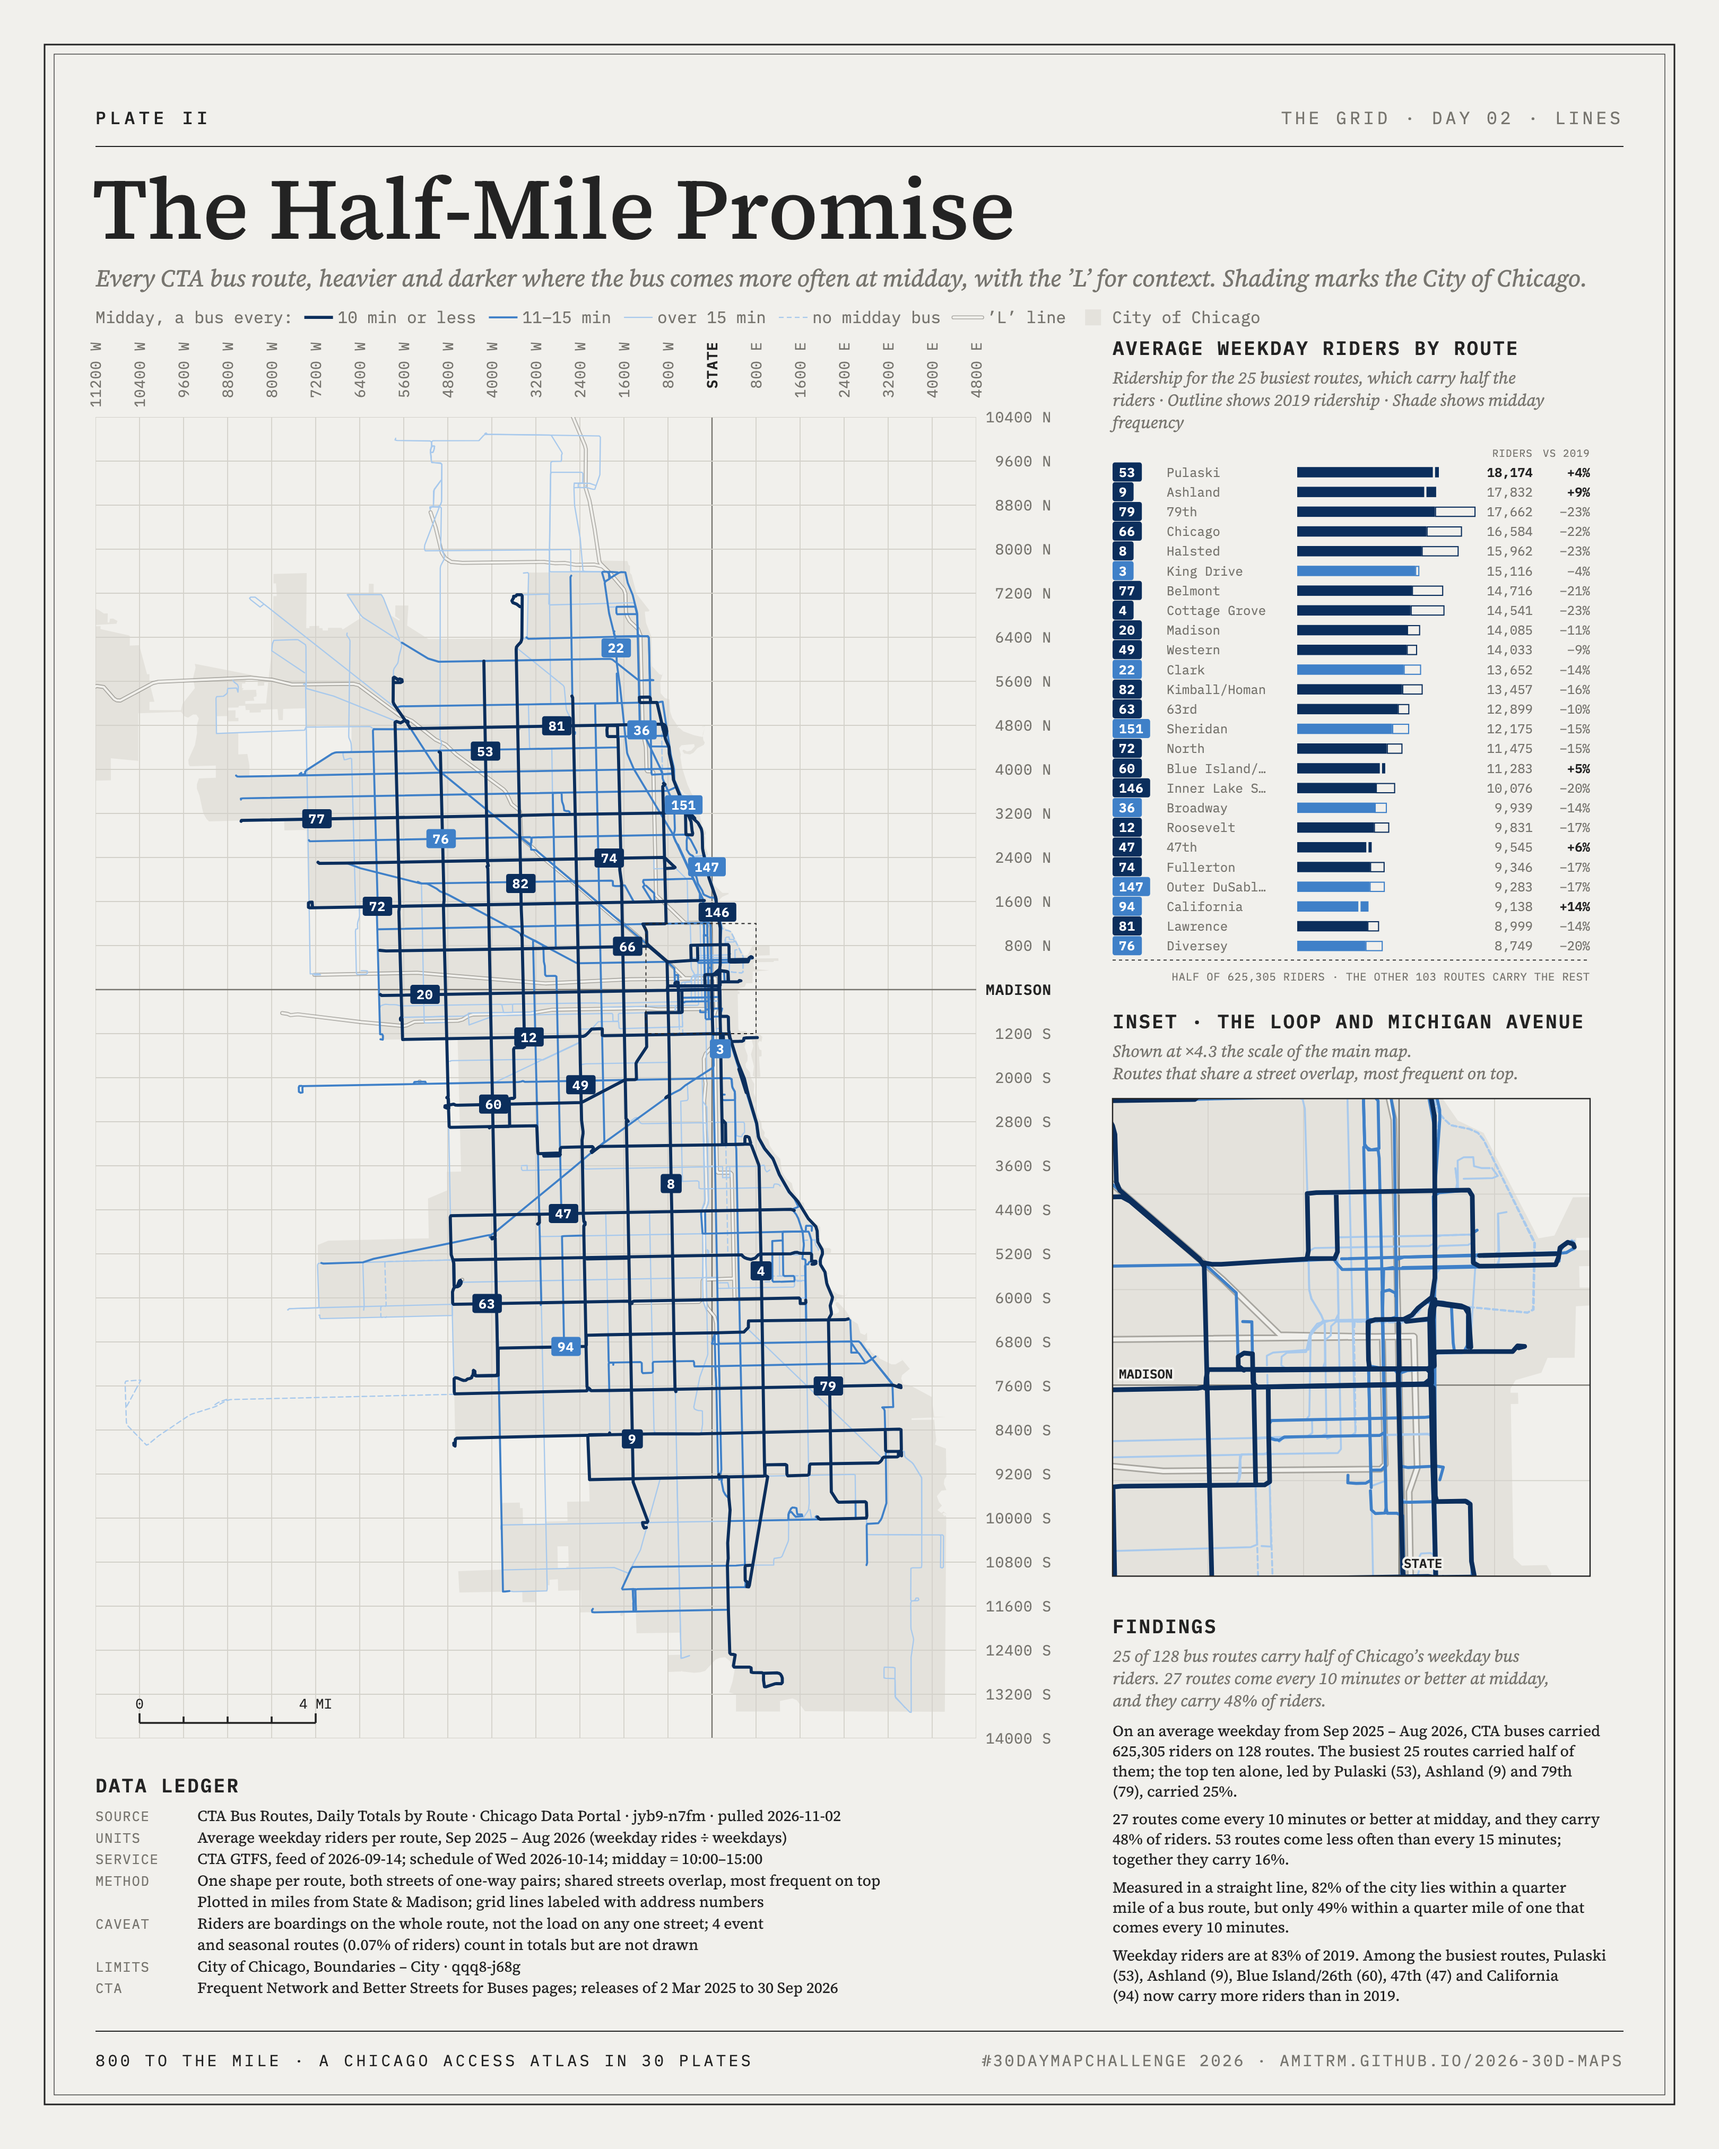
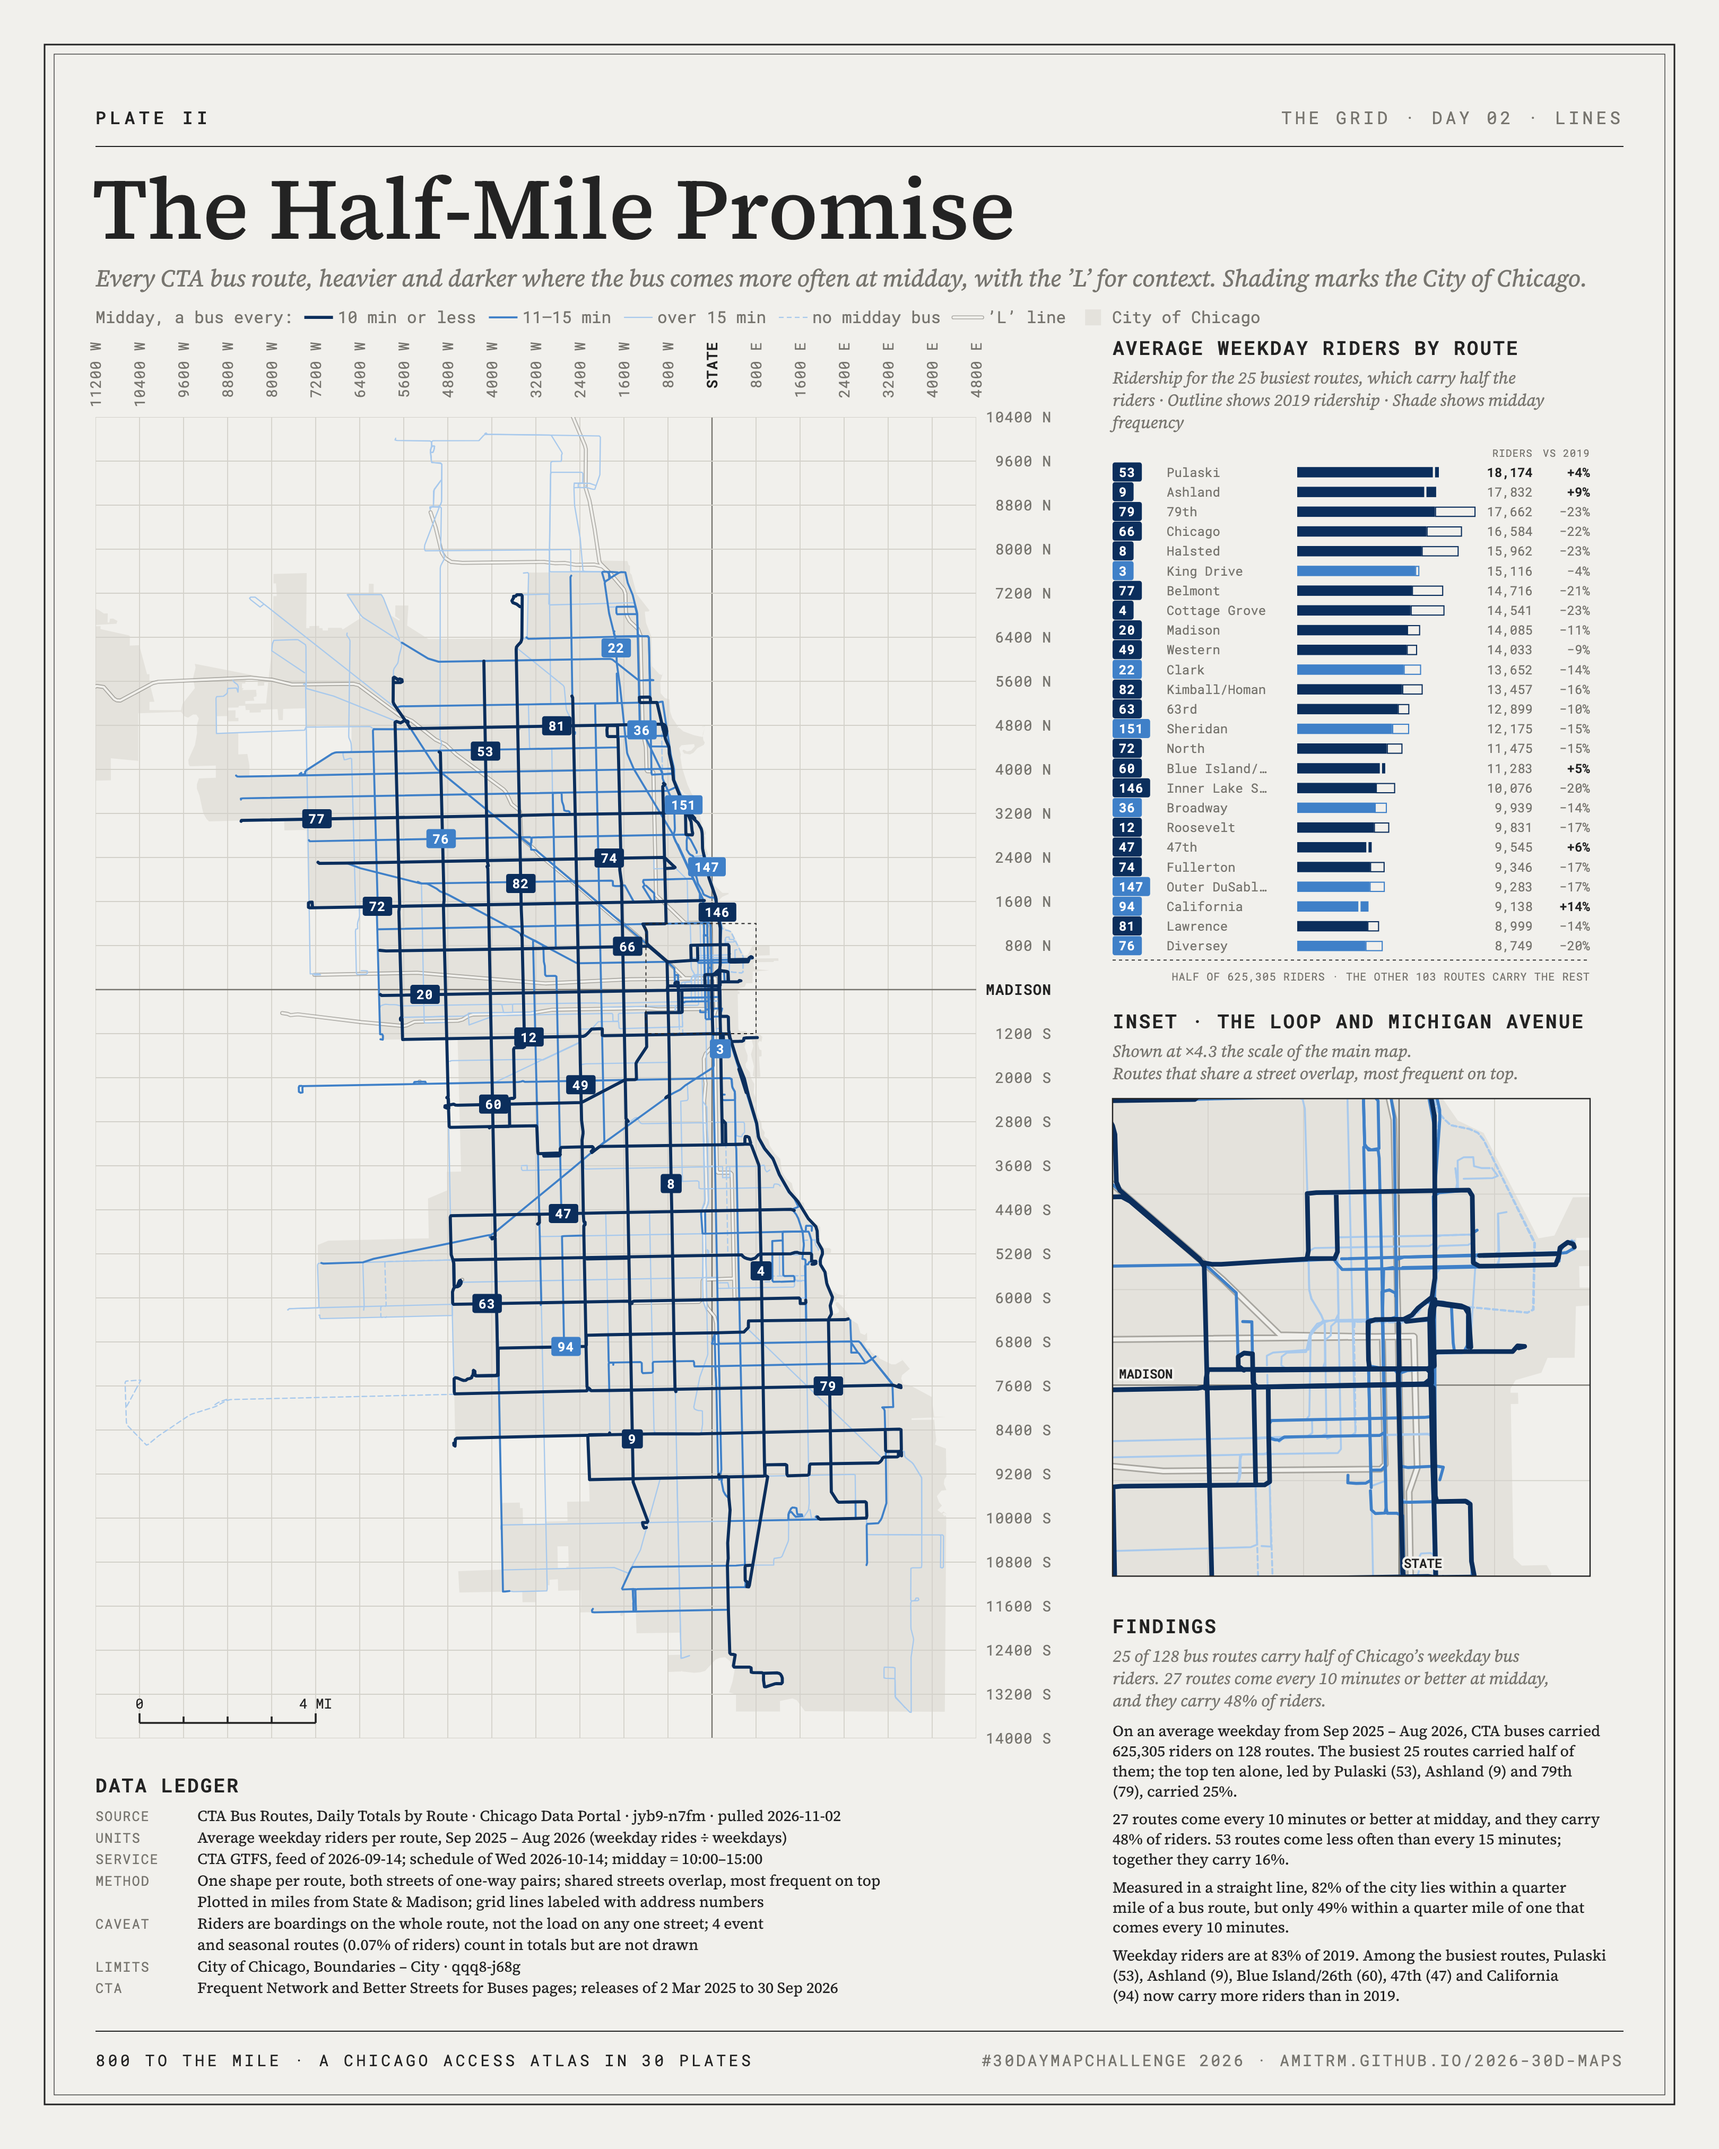
Switch the monospace face to Roboto Mono

diff --git a/src/styles/global.css b/src/styles/global.css
@@ -2,9 +2,9 @@
 @import '@fontsource/source-serif-4/400-italic.css';
 @import '@fontsource/source-serif-4/500.css';
 @import '@fontsource/source-serif-4/600.css';
-@import '@fontsource/ibm-plex-mono/400.css';
-@import '@fontsource/ibm-plex-mono/500.css';
-@import '@fontsource/ibm-plex-mono/600.css';
+@import '@fontsource/roboto-mono/400.css';
+@import '@fontsource/roboto-mono/500.css';
+@import '@fontsource/roboto-mono/600.css';
 
 /* Grayscale by default. Color mode (html[data-mode="color"]) adds hue only to tell data apart. */
 :root {
@@ -14,7 +14,7 @@
   --fog: #cfcdc7;
   --rule: #e1dfd9;
   --serif: 'Source Serif 4', Georgia, serif;
-  --mono: 'IBM Plex Mono', ui-monospace, Menlo, monospace;
+  --mono: 'Roboto Mono', ui-monospace, Menlo, monospace;
   --measure: 62ch;
 }
 

diff --git a/src/lib/export-svg.js b/src/lib/export-svg.js
@@ -9,9 +9,9 @@ const FACES = [
   ['Source Serif 4', 'source-serif-4', 400, 'normal'],
   ['Source Serif 4', 'source-serif-4', 400, 'italic'],
   ['Source Serif 4', 'source-serif-4', 500, 'normal'],
-  ['IBM Plex Mono', 'ibm-plex-mono', 400, 'normal'],
-  ['IBM Plex Mono', 'ibm-plex-mono', 500, 'normal'],
-  ['IBM Plex Mono', 'ibm-plex-mono', 600, 'normal'],
+  ['Roboto Mono', 'roboto-mono', 400, 'normal'],
+  ['Roboto Mono', 'roboto-mono', 500, 'normal'],
+  ['Roboto Mono', 'roboto-mono', 600, 'normal'],
 ];
 
 let fontCss;

diff --git a/src/lib/plate.js b/src/lib/plate.js
@@ -26,7 +26,7 @@ export const LINES = {
 };
 
 export const SERIF ="'Source Serif 4', 'Source Serif Pro', Georgia, serif";
-export const MONO = "'IBM Plex Mono', ui-monospace, Menlo, monospace";
+export const MONO = "'Roboto Mono', ui-monospace, Menlo, monospace";
 
 export const esc = (s) =>
   String(s).replace(/&/g, '&amp;').replace(/</g, '&lt;').replace(/>/g, '&gt;').replace(/'/g, '&#39;');
